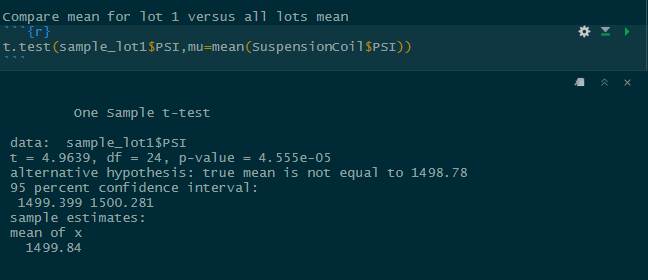
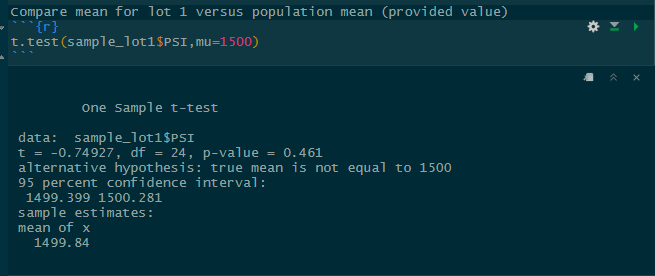
images and readme updates

diff --git a/README.md b/README.md
@@ -43,11 +43,13 @@ The specifications from the MechaCare suspension coils indicated that the varian
 Two data frames were created with summary statistics on the suspension coil psi across all manufactoring lots and then for each lot to analyze the variance manufacturing lots for this design specification.
  
 The total summary table for psi:
+
 ![total summary stat image](/resources/total_summary_psi.png)
 
 * The analyzed manufacturing data indicates the design is meeting this design specification for all the manufacturing lots in total.
 
 The lot summary table for psi:
+
 ![lot summary stat image](/resources/lot_summary_psi.png)
 
 * The variance of the suspension coils in Lot 1 and Lot 2 also do not exceed 100 pounds per square inch and indicate that the suspension coils in these lots meet this design specification.
@@ -66,9 +68,7 @@ With t-tests:
 
 The population mean compared against was 1,500 pounds per square inch.
 
-The p-value for all lots was 0.51, meaning that there is not enough statistical evidence to reject the null hypothesis. Therefore the mean PSI of all manufacturing lots is not statistically different from the population mean. The p-values for lot 1, lot 2, and lot 3 were 0.9, 0.35, and 0.64 respectively. 
-
-Hence, the mean PSIs of each individual lot are also not statistically different from the population mean of 1,500 PSI.
+### All manufacturing lots t- test:
 
 A t-test was performed on the MechaCar manufacturing lots to determine if all the manufacturing lots were statistically different from the population mean of 1,500 pounds per square inch.
 
@@ -76,25 +76,31 @@ The t-test results for all manufacturing lots:
 
 ![t test summary image](/resources/t_test_all_2_pop.png)
 
+With a p-value of .06, the psi mean for all lots is not statistically different from the population mean of 1,500 psi and indicates that there is not enough statistical evidence to reject the null hypothesis. 
+
+### Lot t-tests: 
 A t-test was also performed on each lot individually to determine if each lot was statistically different than the population mean.
 
 The t-test results for lot 1:
 	
 ![t test lot 1 image](/resources/t_test_lot1_2_pop.png)
 
-The p-value for lot 1 was 0.0000001401. 
+With a p-value of .46, the mean psi for lot 1 is not statistically different from the population mean of 1,500 psi and indicates that there is not enough statistical evidence to reject the null hypothesis for the lot.
+
 
 The t-test results for lot 2:
 	
 ![t test lot 2 image](/resources/t_test_lot2_2_pop.png)
 
+With a p-value of .94, the mean psi for lot 2 is not statistically different from the population mean of 1,500 psi and indicates that there is not enough statistical evidence to reject the null hypothesis for the lot.
+
 The t-test results for lot 3:
 	
 ![t test lot 3 image](/resources/t_test_lot3_2_pop.png)
 
+With a p-value of .03, the mean psi for lot 3 is statistically different from the population mean of 1,500 psi and indicates that there is enough statistical evidence to reject the null hypothesis for the lot.
+
 ## MechaCar Statistical Analysis Summary
-Write up a short description of the study design for additional statistical analysis. In the written summaries
-, we would like you to think critically about your analysis, not demonstrate mastery of automotive manufacturing.
 
 ## Study Design: MechaCar vs Competition
 MechaCar could perform an ANOVA test to compare the MechaCar to its competition: cost, city and highway fuel efficiency, horse power, safety rating, maintenance cost.
